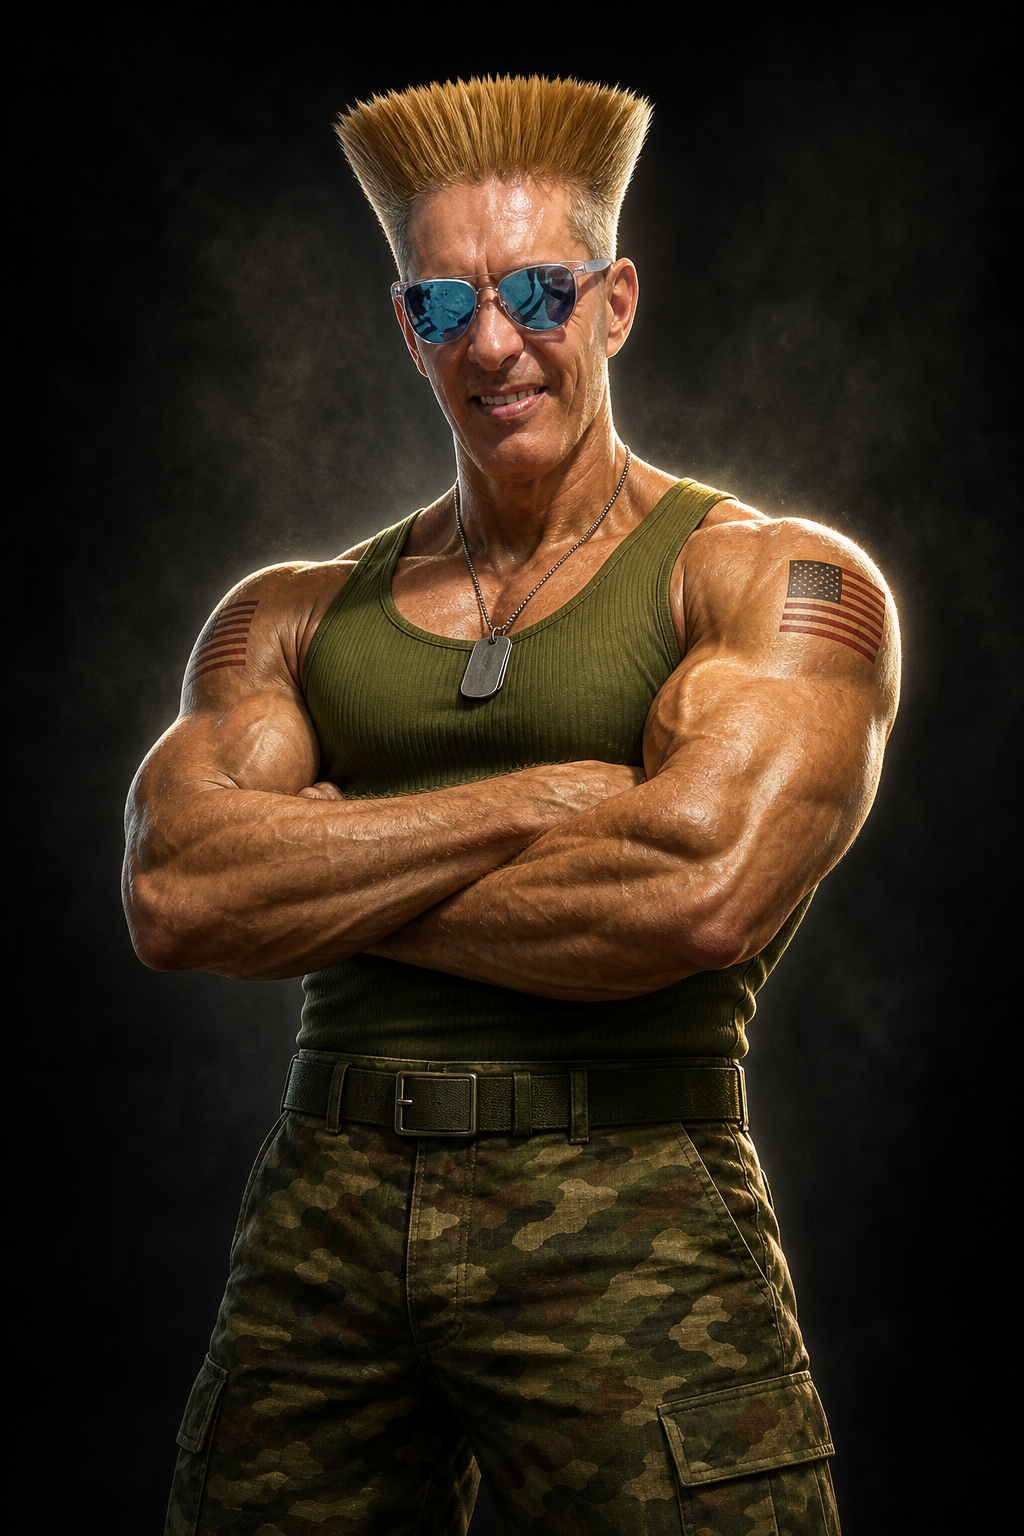
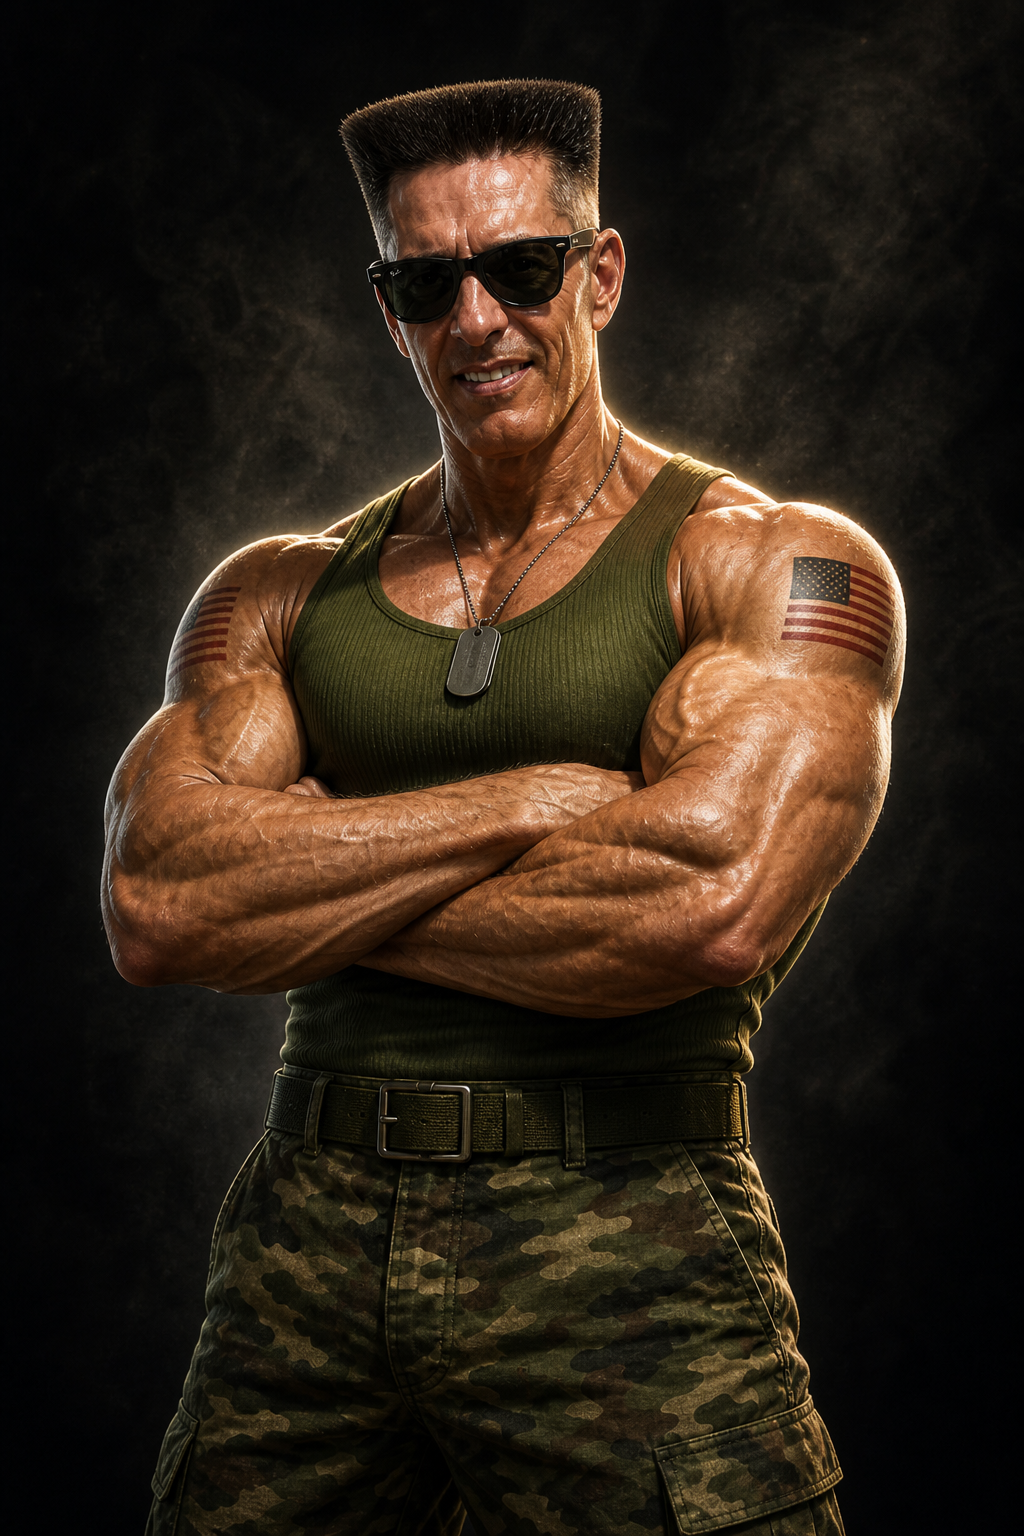
Ritratto Guile: capelli mori e occhiali Ray-Ban
Rigenerato profilo IA da foto reale, aggiornata cache v=2.

diff --git a/trasparenza-ai/index.html b/trasparenza-ai/index.html
@@ -34,7 +34,7 @@
     <h1>Trasparenza sull’uso dell’intelligenza artificiale</h1>
     <p class="legal-doc__meta">Ultimo aggiornamento: <time datetime="2026-08-17">17 agosto 2026</time> · Regolamento (UE) 2024/1689 (AI Act) · art. 50</p>
     <ul>
-      <li><strong>Ritratto in home:</strong> stilizzazione IA in stile Guile (<em>Street Fighter</em>) da foto reale di Vittorio (<code>admin/img/vittorio/vittorio-guile-profilo.webp</code>) — marchio «Foto AI» e <code>data-ai="edited"</code>.</li>
+      <li><strong>Ritratto in home:</strong> stilizzazione IA in stile Guile (<em>Street Fighter</em>) — capelli mori, occhiali Ray-Ban — da foto reale (<code>admin/img/vittorio/vittorio-guile-profilo.webp</code>) — marchio «Foto AI».</li>
       <li><strong>Foto originali:</strong> archiviate in <code>admin/img/vittorio/vittorio-2.jpg</code> e ritaglio documentale <code>vittorio-profilo.webp</code> (non in hero).</li>
       <li><strong>Figure esercizi:</strong> SVG tecnici originali in <code>/admin/img/esercizi-sprite.svg</code> — niente marchio Foto AI.</li>
       <li>Il PDF palestra è anonimo: il nome non è stampato in automatico.</li>

diff --git a/index.html b/index.html
@@ -37,7 +37,7 @@
       <div class="atleta-hero panel-raised">
         <figure class="atleta-hero__photo">
           <span class="ai-photo-wrap">
-            <img src="/admin/img/vittorio/vittorio-guile-profilo.webp?v=1" width="575" height="767" alt="Vittorio in stile Guile (Street Fighter)" data-ai="edited">
+            <img src="/admin/img/vittorio/vittorio-guile-profilo.webp?v=2" width="575" height="767" alt="Vittorio in stile Guile — capelli mori, occhiali Ray-Ban" data-ai="edited">
             <span class="ai-photo-mark" aria-hidden="true">Foto AI</span>
           </span>
           <figcaption class="fig-credit ai-media-note"><span class="ai-badge" aria-hidden="true">IA</span> Ritratto stilizzato da foto reale · <a href="/trasparenza-ai/">Trasparenza</a></figcaption>
